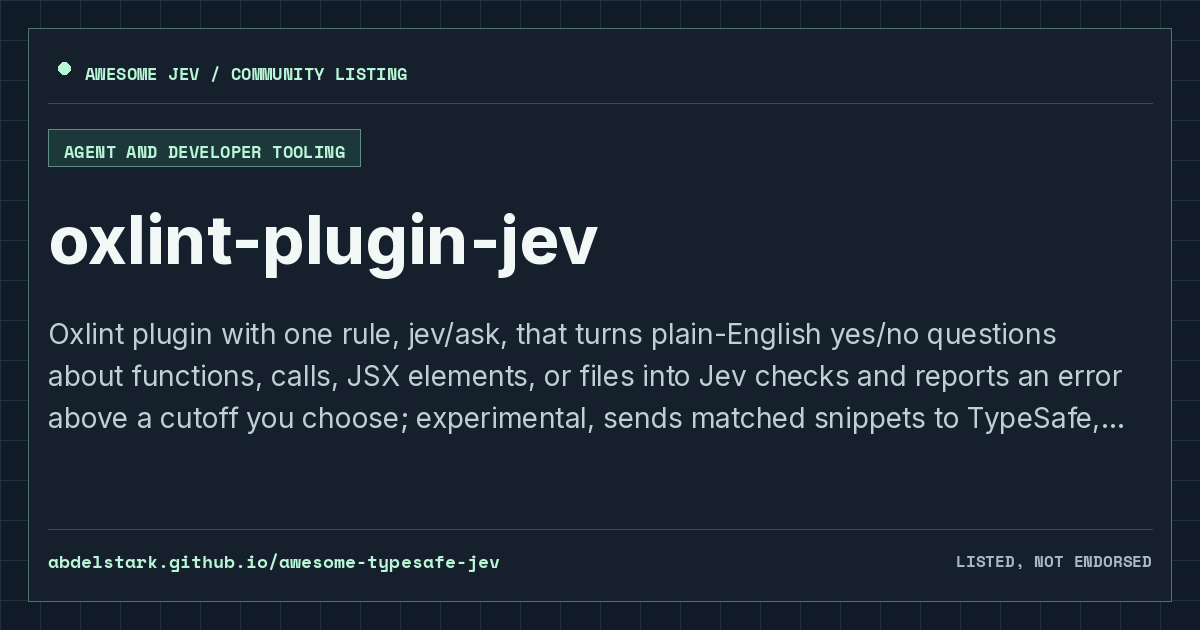
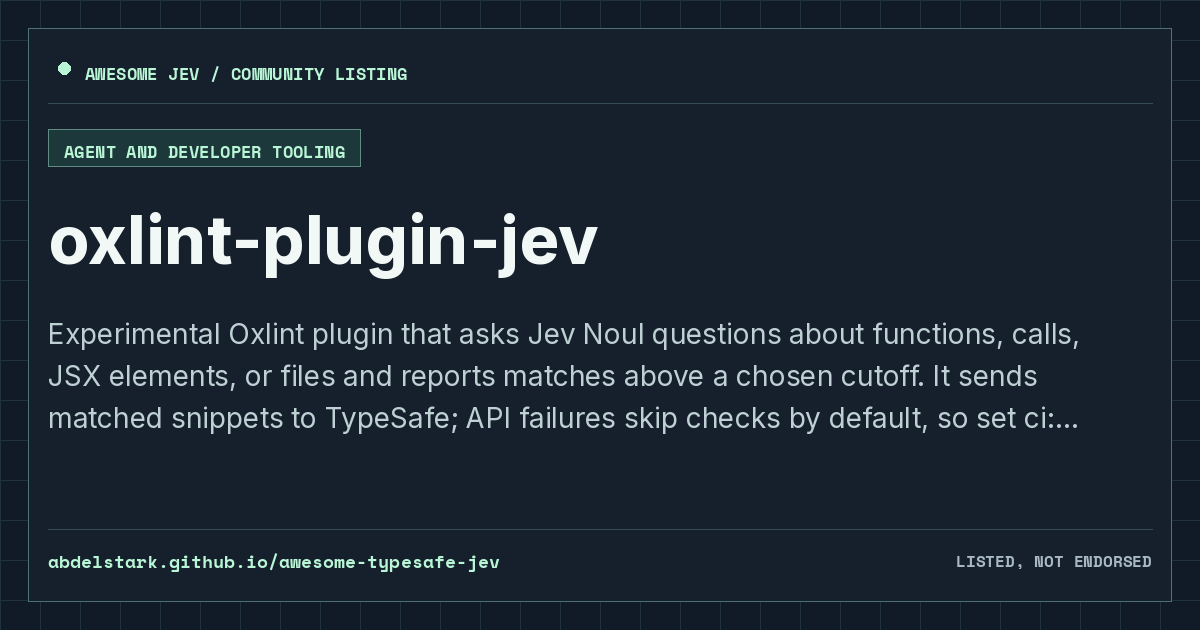
Clarify oxlint-plugin-jev failure and cost behavior

Changed region(s): [[0.0308, 0.5127, 0.925, 0.6937]]

diff --git a/projects/gh-wobsoriano-oxlint-plugin-jev.html b/projects/gh-wobsoriano-oxlint-plugin-jev.html
@@ -1,12 +1,12 @@
 ---
 layout: "resource"
 title: "oxlint-plugin-jev | Awesome Jev"
-description: "Oxlint plugin with one rule, jev/ask, that turns plain-English yes/no questions about functions, calls, JSX elements, or files into Jev checks and reports an error above a cutoff you choose; experimental, sends matched snippets to TypeSafe, and warns rather than fails when Jev is unreachable unless ci is set to \"fail\"."
+description: "Experimental Oxlint plugin that asks Jev Noul questions about functions, calls, JSX elements, or files and reports matches above a chosen cutoff. It sends matched snippets to TypeSafe; API failures skip checks by default, so set ci: \"fail\" in CI. Keep it out of editor linting because edits can trigger paid calls."
 permalink: "/projects/gh-wobsoriano-oxlint-plugin-jev/"
 resource_name: "oxlint-plugin-jev"
 resource_slug: "gh-wobsoriano-oxlint-plugin-jev"
 resource_url: "https://github.com/wobsoriano/oxlint-plugin-jev"
-description_markdown: "Oxlint plugin with one rule, `jev/ask`, that turns plain-English yes/no questions about functions, calls, JSX elements, or files into Jev checks and reports an error above a cutoff you choose; experimental, sends matched snippets to TypeSafe, and warns rather than fails when Jev is unreachable unless `ci` is set to `\"fail\"`."
+description_markdown: "Experimental Oxlint plugin that asks Jev Noul questions about functions, calls, JSX elements, or files and reports matches above a chosen cutoff. It sends matched snippets to TypeSafe; API failures skip checks by default, so set `ci: \"fail\"` in CI. Keep it out of editor linting because edits can trigger paid calls."
 category_name: "Agent and developer tooling"
 category_id: "agent-and-developer-tooling"
 social_image: "/assets/cards/gh-wobsoriano-oxlint-plugin-jev.png"

diff --git a/categories/agent-and-developer-tooling.html b/categories/agent-and-developer-tooling.html
@@ -174,7 +174,7 @@ resources:
     image: "/assets/cards/gh-droidrun-mobile-jev.png"
   - name: "oxlint-plugin-jev"
     url: "https://github.com/wobsoriano/oxlint-plugin-jev"
-    description: "Oxlint plugin with one rule, jev/ask, that turns plain-English yes/no questions about functions, calls, JSX elements, or files into Jev checks and reports an error above a cutoff you choose; experimental, sends matched snippets to TypeSafe, and warns rather than fails when Jev is unreachable unless ci is set to \"fail\"."
+    description: "Experimental Oxlint plugin that asks Jev Noul questions about functions, calls, JSX elements, or files and reports matches above a chosen cutoff. It sends matched snippets to TypeSafe; API failures skip checks by default, so set ci: \"fail\" in CI. Keep it out of editor linting because edits can trigger paid calls."
     permalink: "/projects/gh-wobsoriano-oxlint-plugin-jev/"
     image: "/assets/cards/gh-wobsoriano-oxlint-plugin-jev.png"
   - name: "pi-heed"

diff --git a/README.md b/README.md
@@ -292,7 +292,7 @@ These tools use typed judgments to search, route, review, or gate developer work
 - [Jevonian](https://github.com/xinyao27/jevonian) — Experimental local proxy for coding agents using OpenAI, Anthropic, or Responses-compatible APIs. The `jevonian/auto` route asks Jev to choose a model and thinking level after deterministic compatibility and quota filters; explicit routes skip Jev. The ledger records the serving model, route reason, token usage, and estimated cost. Jev receives recent messages and tool results, and the optional `fullPrompt` setting can send the whole conversation. Low confidence is flagged rather than automatically rerouted; costs and cache savings are estimates.
 - [jgrep](https://github.com/kyu1204/jgrep) — Semantic grep CLI (`npm install -g jevgrep`) that splits files or git diff hunks into 5–60 line chunks, packs several chunks into one request with a Noul question per chunk, and prints `file:line` hits above a probability threshold with grep-style exit codes, so a diff can be linted in CI against rules written in English; ships an interactive `jgrep init` and an opt-in Claude Code and Codex skill; chunks are judged in isolation so cross-file questions do not match, and every chunk's text is sent to TypeSafe's API.
 - [Mobile Jev](https://github.com/droidrun/mobile-jev) — Local Android agent and studio using Mobilerun: Jev selects operations and observed targets, code rejects stale actions, and the included dark-theme demo checks the resulting switch; it needs a device plus Mobilerun and TypeSafe keys, while CI tests do not control a live phone.
-- [oxlint-plugin-jev](https://github.com/wobsoriano/oxlint-plugin-jev) — Oxlint plugin with one rule, `jev/ask`, that turns plain-English yes/no questions about functions, calls, JSX elements, or files into Jev checks and reports an error above a cutoff you choose; experimental, sends matched snippets to TypeSafe, and warns rather than fails when Jev is unreachable unless `ci` is set to `"fail"`.
+- [oxlint-plugin-jev](https://github.com/wobsoriano/oxlint-plugin-jev) — Experimental Oxlint plugin that asks Jev Noul questions about functions, calls, JSX elements, or files and reports matches above a chosen cutoff. It sends matched snippets to TypeSafe; API failures skip checks by default, so set `ci: "fail"` in CI. Keep it out of editor linting because edits can trigger paid calls.
 - [pi-heed](https://github.com/Nyarlathoteppppp/pi-heed) — Pi extension that turns constraints stated in conversation (English and Chinese) into a scoped, replayable policy (deny, allow, exceptions, once/run permissions, ask-first, tests-before-push) and checks side-effecting tool calls against it before they run; rules handle side effects and paths while Jev only classifies how each message changes the policy, re-checks exceptions and skips tools a free-text rule cannot concern; ships a replayable [benchmark](https://github.com/Nyarlathoteppppp/pi-heed/blob/main/bench/README.md) and an [experiment log](https://github.com/Nyarlathoteppppp/pi-heed/blob/main/EXPERIMENTS.md) on Jev calibration and question design; experimental, shadow mode by default, fails open, and the benchmark is scripted rather than drawn from real sessions.
 - [pi-jev](https://github.com/y0usaf/pi-jev) — Pi extension with a shadow-mode tool-call gate, output judge, and a general typed `jev_ask` tool.
 - [pi-jev-context](https://github.com/Nyarlathoteppppp/pi-jev-context) — Pi extension that shortens long tool output before it enters the context, so no cached prompt prefix is invalidated: Jev gives every block of the output a probability that the current request needs it, only blocks it is confident are unneeded are hidden, code guarantees that failure lines, request terms and the top-ranked blocks survive, kept lines stay verbatim, and a `context_recall` tool returns the original; ships [experiment reports](https://github.com/Nyarlathoteppppp/pi-jev-context/tree/main/docs/experiments) and a [findings log](https://github.com/Nyarlathoteppppp/pi-jev-context/blob/main/docs/FINDINGS.md) with pre-registered synthetic sets and weakly labelled replays of real sessions, including a negative result (Jev-judged pruning of old context dropped information needed later, so that part stays shadow-only); experimental, shadow mode by default, and the real-session replays come from one user's sessions.
